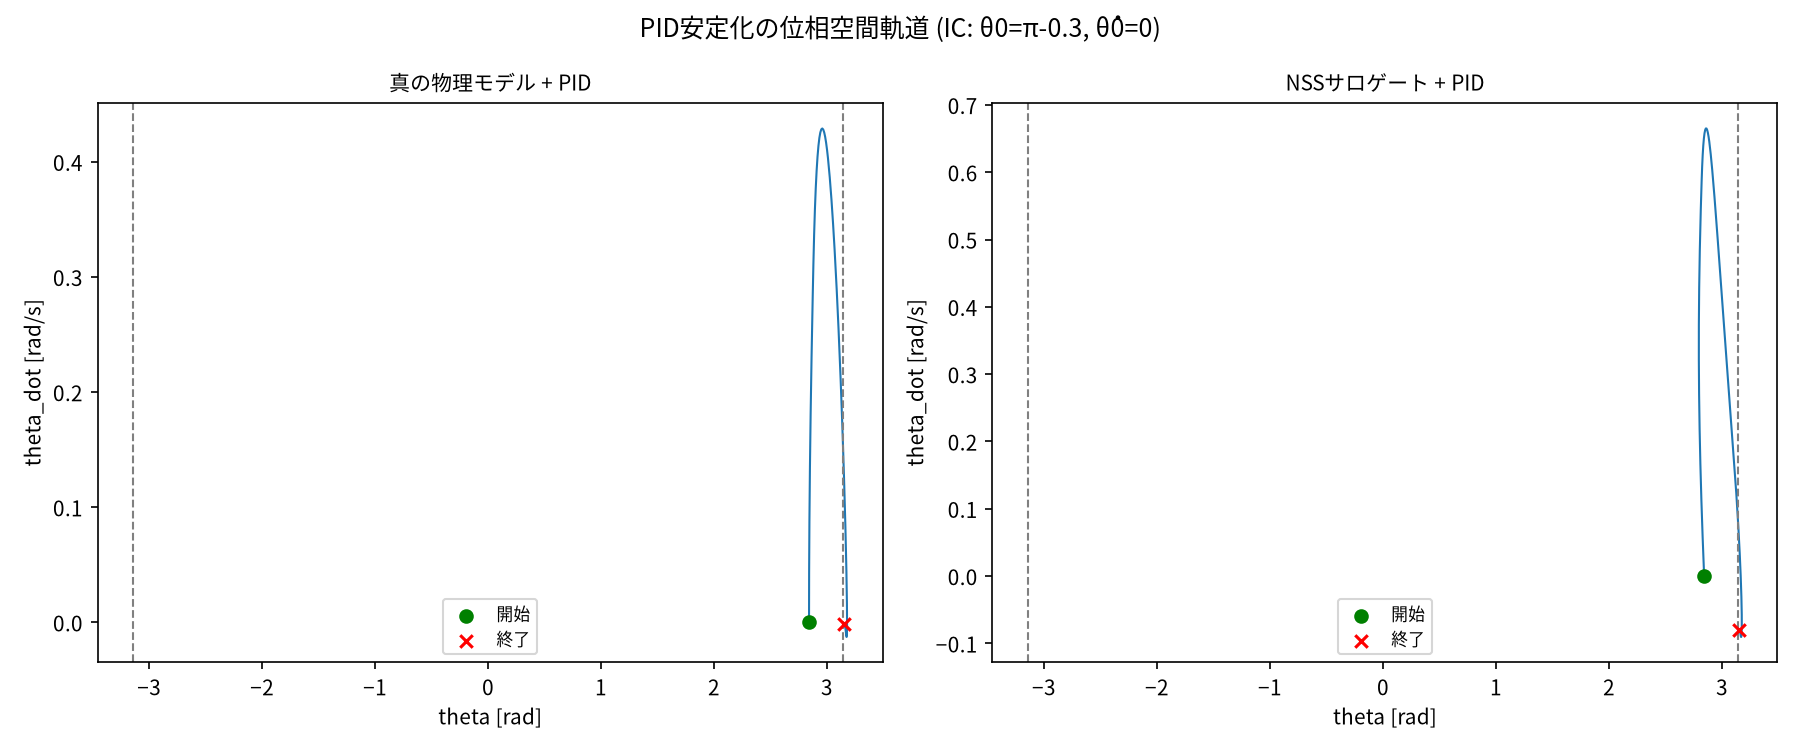
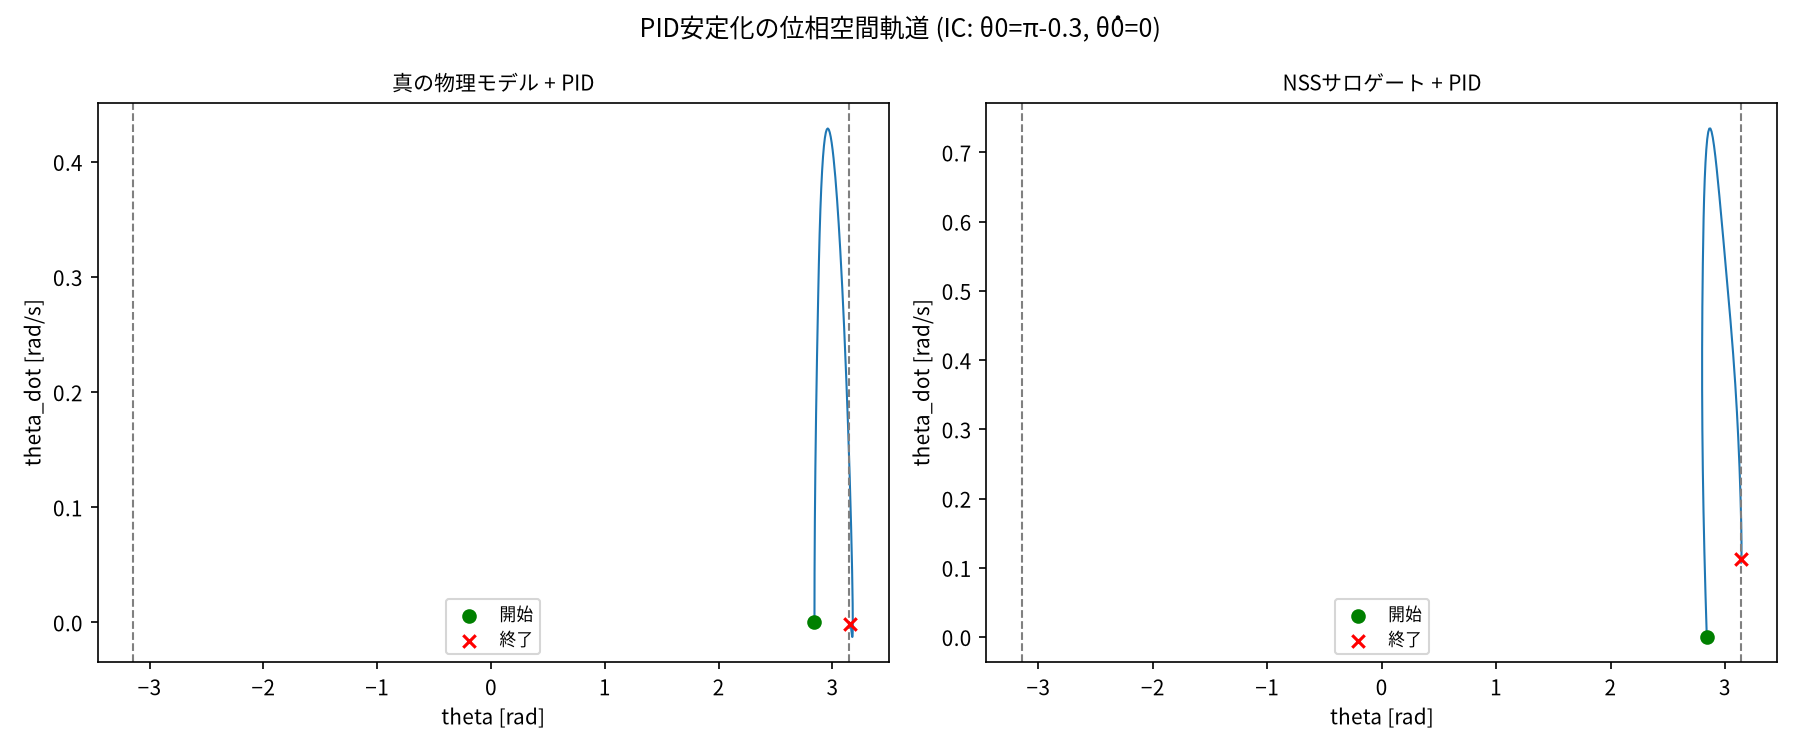
M13: オンポリシーデータ収集(DAgger風)によるPTP制御精度の改善 (#28)
src/dagger.pyでcollect_dagger_windowsを実装: 現在のサロゲート+PIDを
閉ループさせて訪れた状態・トルク系列を収集し、真の物理モデルでの
Kステップ先の正解ラベルを付与する。train.pyのtrain()にextra_windows
引数を追加し、標準のランダム軌道ウィンドウに混ぜて学習できるように
した。

src/retrain_dagger.pyで、M5の18通りグリッド+M12の15通りスイープ
(既知のリグレッション事例)から1254個のDAggerウィンドウを収集し、
M7と同じカリキュラムで再学習。

Before/After比較(src/evaluate_dagger.py):
- M5の18通り評価: 成功数13/18→12/18(ほぼ横ばい、狙った特定の
  リグレッション事例 Δθ0=-0.1,θ̇0=-1.0 は直らず、別の楽観バイアス
  事例 Δθ0=+0.3,θ̇0=+1.0 は正しく失敗するようになった)
- M12の角速度スイープ: 成功数7/15→9/15に改善。失敗パターンの形状も
  真値の失敗領域の立ち上がり・終わりに、より近づいた。

1回のDAgger収集では狙った特定事例の修正までは至らなかったが、
全体的な傾向としては改善が見られた。反復的なDAgger(collect→retrain
→collectを繰り返す)がさらなる改善につながる可能性がある。

Refs #27

Claude-Session: https://claude.ai/code/session_01Rvrf6mcbh1UrexApn66z2b

diff --git a/src/evaluate_dagger.py b/src/evaluate_dagger.py
@@ -1,0 +1,68 @@
+"""M13: DAgger風再学習のBefore/After比較(#27)。
+
+M12の角速度スイープとM5の18通りグリッドで、DAgger適用前(outputs/nss_model_
+before_dagger.pt)・適用後(outputs/nss_model.pt)・真の物理モデルを比較する。
+"""
+import matplotlib
+
+matplotlib.use("Agg")
+import matplotlib.pyplot as plt
+import numpy as np
+import torch
+
+plt.rcParams["font.family"] = "Noto Sans CJK JP"
+
+from src.diagnose_amplitude_sweep import DAMPING, N_STEPS, THETA0, THETA_DOT0_RANGE, WINDOW
+from src.model import NSSModel
+from src.pid import angular_error_to_inverted, run_pid_surrogate, run_pid_true
+
+BEFORE_PATH = "outputs/nss_model_before_dagger.pt"
+AFTER_PATH = "outputs/nss_model.pt"
+OUT_DIR = "outputs"
+
+
+def load(path: str) -> NSSModel:
+    model = NSSModel()
+    model.load_state_dict(torch.load(path, map_location="cpu"))
+    model.eval()
+    return model
+
+
+def sweep_errors(model: NSSModel | None) -> np.ndarray:
+    errors = []
+    for v0 in THETA_DOT0_RANGE:
+        ic = np.array([THETA0, -v0])
+        if model is None:
+            traj, _ = run_pid_true(ic, N_STEPS, c=DAMPING)
+        else:
+            traj, _ = run_pid_surrogate(model, ic, N_STEPS)
+        errors.append(np.abs(angular_error_to_inverted(traj[-WINDOW:, 0])).mean())
+    return np.array(errors)
+
+
+if __name__ == "__main__":
+    before_model = load(BEFORE_PATH)
+    after_model = load(AFTER_PATH)
+
+    true_err = sweep_errors(None)
+    before_err = sweep_errors(before_model)
+    after_err = sweep_errors(after_model)
+
+    plt.figure(figsize=(7, 4.5))
+    plt.plot(THETA_DOT0_RANGE, true_err, marker="o", label="真の物理モデル", markersize=4)
+    plt.plot(THETA_DOT0_RANGE, before_err, marker="o", label="Before (M7, DAgger前)", markersize=4)
+    plt.plot(THETA_DOT0_RANGE, after_err, marker="o", label="After (M13, DAgger後)", markersize=4)
+    plt.axhline(0.1, color="red", linestyle=":", linewidth=1, label="成功しきい値 (0.1rad)")
+    plt.xlabel("初期角速度の大きさ |θ̇0| [rad/s] (θ0=π-0.1から下向きに開始)")
+    plt.ylabel("最終1秒間の平均角距離 |θ-π| [rad]")
+    plt.title("DAgger再学習のBefore/After比較(M12の角速度スイープ)")
+    plt.legend(fontsize=8)
+    plt.tight_layout()
+    plt.savefig(f"{OUT_DIR}/dagger_before_after_sweep.png", dpi=150)
+    plt.close()
+    print(f"saved {OUT_DIR}/dagger_before_after_sweep.png")
+
+    n_true = (true_err < 0.1).sum()
+    n_before = (before_err < 0.1).sum()
+    n_after = (after_err < 0.1).sum()
+    print(f"成功数: 真値={n_true}/15, Before={n_before}/15, After={n_after}/15")

diff --git a/src/dagger.py b/src/dagger.py
@@ -1,0 +1,54 @@
+"""オンポリシーデータ収集(DAgger風)によるサロゲート改善(#27)。
+
+M8/M9/M11/M12で、サロゲートの誤差は「訓練時のランダム軌道分布」と「実際の
+制御ループ(PID)で訪れる状態分布」のズレ(distributional shift)に起因することが
+繰り返し示唆された。ここでは、現在のサロゲート+PIDを実際に閉ループさせて訪れた
+状態・トルク系列を収集し、その各時点から真の物理モデルでKステップ先まで
+ロールアウトした正解ラベルを付けることで、通常の学習ウィンドウと同じ形式
+(x0, u_seq, targets)の訓練データを作る。
+"""
+import numpy as np
+
+from src.model import NSSModel
+from src.physics import simulate
+from src.pid import run_pid_surrogate
+
+DT = 0.02
+
+
+def collect_dagger_windows(
+    model: NSSModel,
+    ics: np.ndarray,
+    n_steps: int,
+    k: int,
+    c: float,
+    stride: int = 5,
+) -> tuple[np.ndarray, np.ndarray, np.ndarray]:
+    """サロゲート+PIDの閉ループ軌道を訪れ、真の物理モデルでラベル付けする。
+
+    ics: shape (n_ic, 2)。各ICについてサロゲート+PIDをn_stepsステップ実行し、
+    訪れた状態・適用したトルクから stride ごとにKステップの学習ウィンドウを切り出す。
+    正解ラベル(targets)は、訪れた状態からサロゲートが実際に適用したトルク系列を
+    そのまま使って真の物理モデルでKステップ先までロールアウトしたもの。
+
+    Returns: make_rollout_windows と同じ形式
+        x0:      shape (n_windows, 2)
+        u_seq:   shape (k, n_windows)
+        targets: shape (k, n_windows, 2)
+    """
+    x0_parts, u_parts, target_parts = [], [], []
+
+    for ic in ics:
+        traj, taus = run_pid_surrogate(model, ic, n_steps)  # traj:(n_steps+1,2), taus:(n_steps,)
+        for start in range(0, n_steps - k + 1, stride):
+            x0 = traj[start]
+            u_seq = taus[start : start + k]
+            true_continuation = simulate(x0, DT, k, c=c, tau=u_seq)  # (k+1, 2)
+            x0_parts.append(x0)
+            u_parts.append(u_seq)
+            target_parts.append(true_continuation[1:])
+
+    x0 = np.stack(x0_parts, axis=0)
+    u_seq = np.stack(u_parts, axis=0).T
+    targets = np.stack(target_parts, axis=0).transpose(1, 0, 2)
+    return x0, u_seq, targets

diff --git a/src/retrain_dagger.py b/src/retrain_dagger.py
@@ -1,0 +1,54 @@
+"""M13: 現在のサロゲートモデルでDAgger風データを収集し、再学習する。
+
+収集対象ICはM5の18通りのグリッド + M12の15通りの角速度スイープ
+(既知のリグレッション事例を優先的にカバー)。
+"""
+import numpy as np
+import torch
+
+from src.dagger import collect_dagger_windows
+from src.diagnose_amplitude_sweep import THETA0 as SWEEP_THETA0
+from src.diagnose_amplitude_sweep import THETA_DOT0_RANGE
+from src.evaluate_pid import ANGLE_OFFSETS, VELOCITY_OFFSETS
+from src.model import NSSModel
+from src.train import CURRICULUM, DAMPING, K_MAX, SEED, train
+
+MODEL_PATH = "outputs/nss_model.pt"
+DAGGER_N_STEPS = 400  # M5/M12と同じ8秒
+DAGGER_STRIDE = 10
+
+
+def load_current_model() -> NSSModel:
+    model = NSSModel()
+    model.load_state_dict(torch.load(MODEL_PATH, map_location="cpu"))
+    model.eval()
+    return model
+
+
+def make_collection_ics() -> np.ndarray:
+    """M5の18通りグリッド + M12の15通りスイープを合わせた収集対象IC。"""
+    m5_ics = [
+        [np.pi + angle_offset, velocity_offset]
+        for angle_offset in ANGLE_OFFSETS
+        for velocity_offset in VELOCITY_OFFSETS
+    ]
+    m12_ics = [[SWEEP_THETA0, -v0] for v0 in THETA_DOT0_RANGE]
+    return np.array(m5_ics + m12_ics)
+
+
+if __name__ == "__main__":
+    old_model = load_current_model()
+    ics = make_collection_ics()
+    print(f"collecting DAgger data from {len(ics)} ICs (old model closed-loop PID rollouts)...")
+
+    extra_windows = collect_dagger_windows(
+        old_model, ics, n_steps=DAGGER_N_STEPS, k=K_MAX, c=DAMPING, stride=DAGGER_STRIDE
+    )
+    print(f"collected {extra_windows[0].shape[0]} DAgger windows")
+
+    torch.manual_seed(SEED)
+    np.random.seed(SEED)
+    new_model = train(curriculum=CURRICULUM, extra_windows=extra_windows)
+
+    torch.save(new_model.state_dict(), MODEL_PATH)
+    print(f"saved to {MODEL_PATH}")

diff --git a/src/train.py b/src/train.py
@@ -35,11 +35,20 @@ WINDOW_STRIDE = 2
 CURRICULUM = [(1, 40), (3, 30), (5, 30), (10, 30), (20, 30), (K_MAX, 40)]
 
 
-def train(device: str = "cpu", curriculum: list[tuple[int, int]] | None = None) -> NSSModel:
+def train(
+    device: str = "cpu",
+    curriculum: list[tuple[int, int]] | None = None,
+    extra_windows: tuple[np.ndarray, np.ndarray, np.ndarray] | None = None,
+) -> NSSModel:
     """curriculum省略時はM7のデフォルト(K=1→30の段階的カリキュラム)を使う。
 
     診断・比較用に curriculum=[(1, 200)] のように渡せば、1-stepのみで学習した
     M3相当のベースラインモデルも同じ関数で再現できる(#23)。
+
+    extra_windows: (x0, u_seq, targets) を渡すと、標準のランダム軌道ウィンドウに
+    追加して学習に使う(#27: DAgger風のオンポリシーデータ収集による拡張)。
+    形状はmake_rollout_windowsの出力と同じ(x0: (n,2), u_seq: (k_max,n),
+    targets: (k_max,n,2))で、k_maxは呼び出し側でcurriculumの最大kと揃えること。
     """
     curriculum = curriculum if curriculum is not None else CURRICULUM
     k_max = max(k for k, _ in curriculum)
@@ -57,6 +66,12 @@ def train(device: str = "cpu", curriculum: list[tuple[int, int]] | None = None) 
     x0_val, u_val, targets_val = make_rollout_windows(
         val_traj, val_tau, k_max, stride=WINDOW_STRIDE
     )
+
+    if extra_windows is not None:
+        extra_x0, extra_u, extra_targets = extra_windows
+        x0_train = np.concatenate([x0_train, extra_x0], axis=0)
+        u_train = np.concatenate([u_train, extra_u], axis=1)
+        targets_train = np.concatenate([targets_train, extra_targets], axis=1)
 
     x0_train_t = torch.as_tensor(x0_train, dtype=torch.float32, device=device)
     u_train_t = torch.as_tensor(u_train, dtype=torch.float32, device=device)

diff --git a/tests/test_dagger.py b/tests/test_dagger.py
@@ -1,0 +1,20 @@
+import numpy as np
+
+from src.dagger import collect_dagger_windows
+from src.model import NSSModel
+
+
+def test_collect_dagger_windows_shapes():
+    model = NSSModel()
+    ics = np.array([[np.pi - 0.1, -1.0], [np.pi + 0.2, 0.5]])
+    k = 5
+    n_steps = 20
+    stride = 5
+
+    x0, u_seq, targets = collect_dagger_windows(model, ics, n_steps=n_steps, k=k, c=0.15, stride=stride)
+
+    n_starts = (n_steps - k) // stride + 1
+    n_windows = n_starts * len(ics)
+    assert x0.shape == (n_windows, 2)
+    assert u_seq.shape == (k, n_windows)
+    assert targets.shape == (k, n_windows, 2)

diff --git a/README.md b/README.md
@@ -32,6 +32,9 @@ pip install -r requirements.txt
 - **M12** (完了, #25): 初期角速度をスイープしてM11の知見を一般化。1-stepモデルは
   トルク飽和で真値が失敗する領域でも常に成功してしまう楽観バイアスを持つ一方、
   マルチステップモデルの失敗領域は真値の失敗領域の形状とよく一致することを発見。
+- **M13** (完了, #27): 現在のサロゲート+PIDを閉ループさせて訪れた状態を真の物理
+  モデルでラベル付けするDAgger風のオンポリシーデータ収集で再学習。M12の角速度
+  スイープでの成功数が7/15→9/15に改善し、失敗パターンの形状も真値に近づいた。
 
 M1-M9の詳細な要約・横断的な教訓は [LESSONS.md](LESSONS.md) を参照。
 
@@ -52,6 +55,9 @@ src/
   evaluate_ptp.py            # PTP制御検証・プロット生成(M6)
   diagnose_linearization.py     # 倒立平衡点でのヤコビアン比較・回復挙動診断(M11)
   diagnose_amplitude_sweep.py   # 初期角速度スイープでの1-step/マルチステップ比較(M12)
+  dagger.py                     # DAgger風オンポリシーデータ収集(M13)
+  retrain_dagger.py             # DAggerデータ込みの再学習スクリプト(M13)
+  evaluate_dagger.py            # DAgger再学習のBefore/After比較・プロット生成(M13)
 tests/
   test_physics.py
   test_control.py
@@ -59,4 +65,5 @@ tests/
   test_train.py
   test_diagnose_linearization.py
   test_diagnose_amplitude_sweep.py
+  test_dagger.py
 ```
